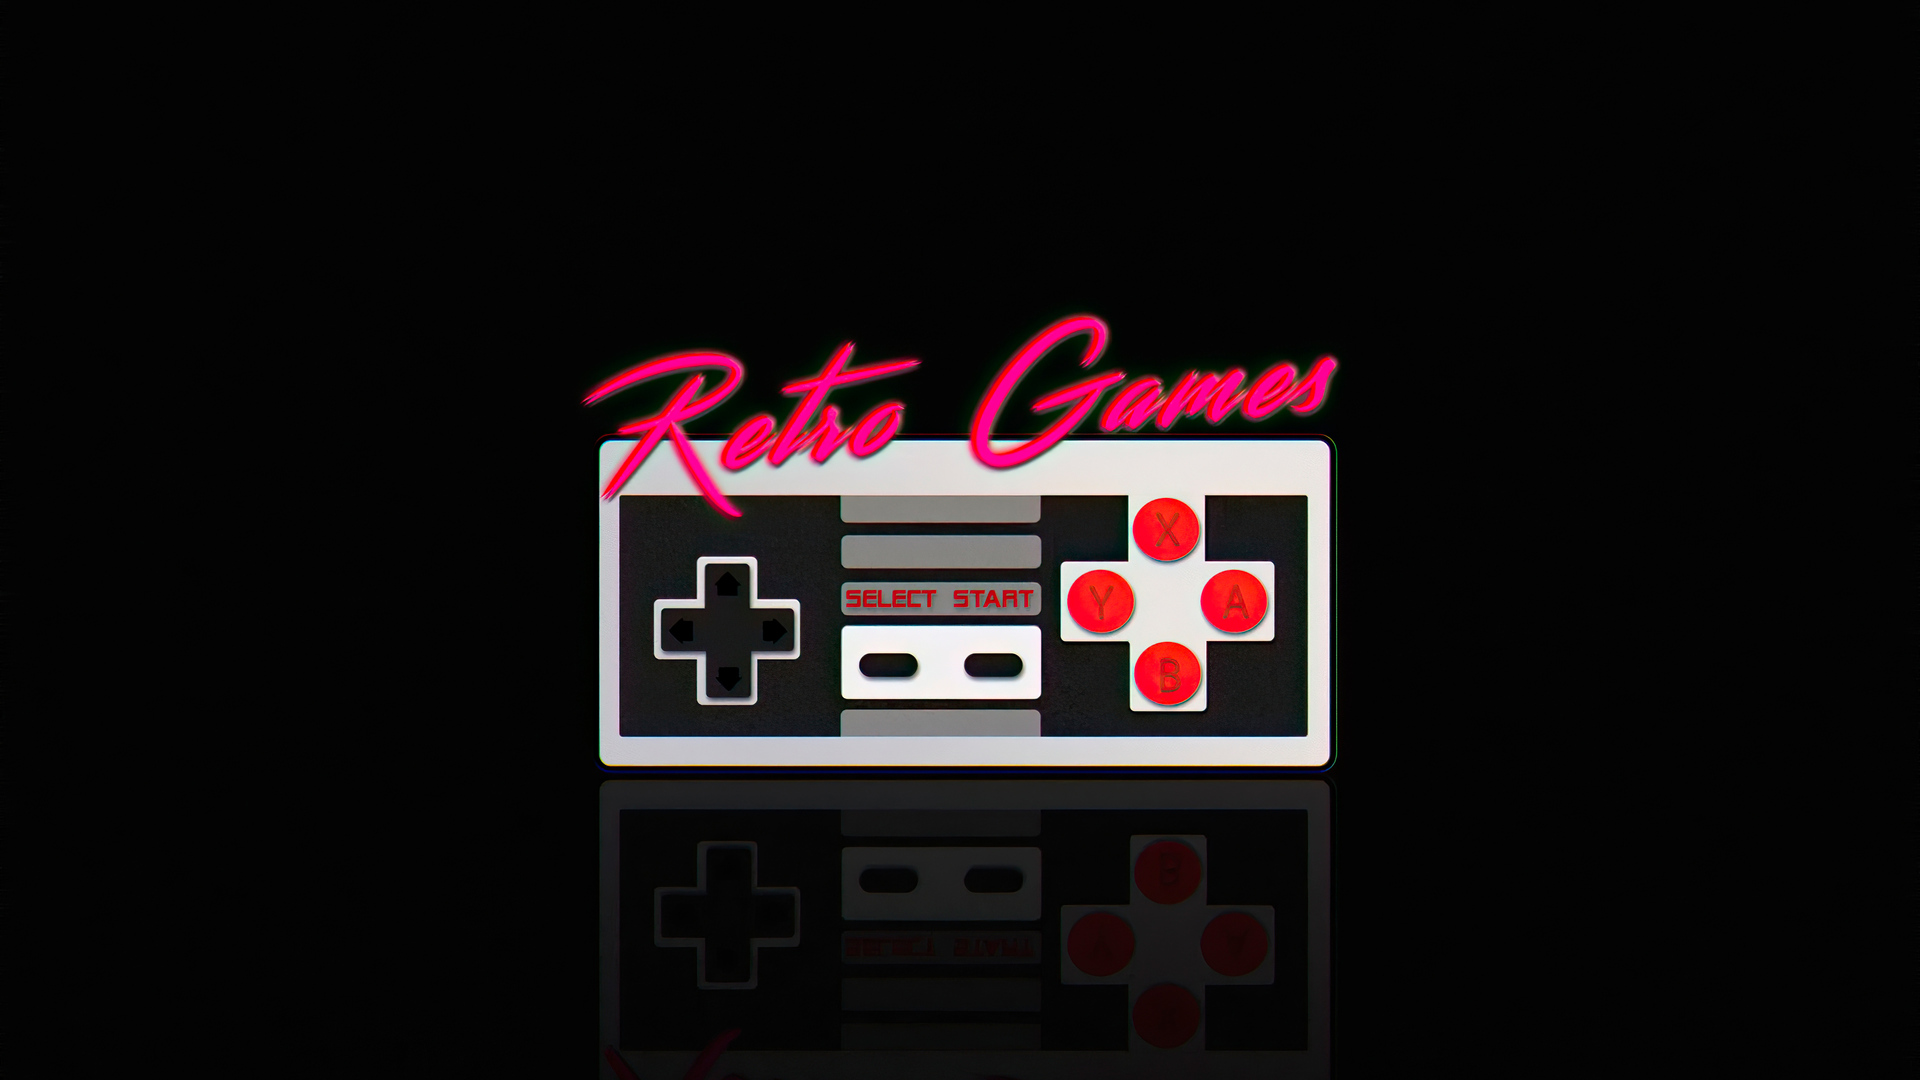
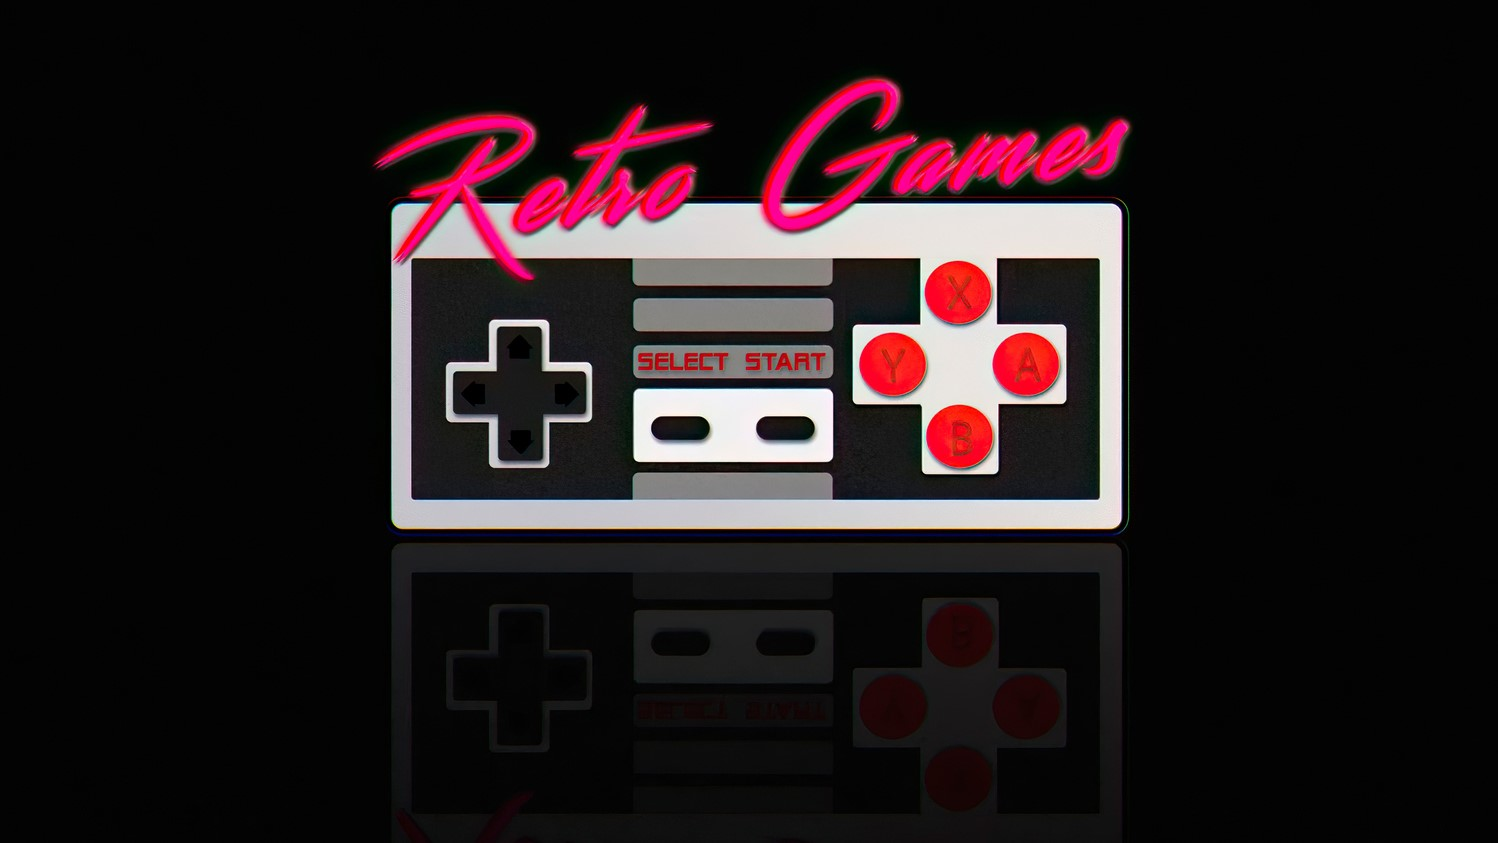
frontpage

Changed region(s): [[0.2457, 0.0925, 0.7677, 0.9253]]

diff --git a/templates/frontpage/frontpageIndex.html b/templates/frontpage/frontpageIndex.html
@@ -1,4 +1,5 @@
 {% extends 'base.html' %}
+{% load static %}
 {% block content %}
         <!-- CATALOG INDEX SKJAL -->
     <div class="carousel slide" id="carousel-308506">
@@ -23,7 +24,7 @@
                 </div>
             </div>
             <div class="carousel-item active">
-                <img class="d-block w-100" alt="Carousel Bootstrap Second" src="img/retrogames.jpg2">
+                <img class="d-block w-100" alt="Carousel Bootstrap Second" src="img/retrogames2.jpg">
                 <div class="carousel-caption">
                     <h4>
                         Who are we?
